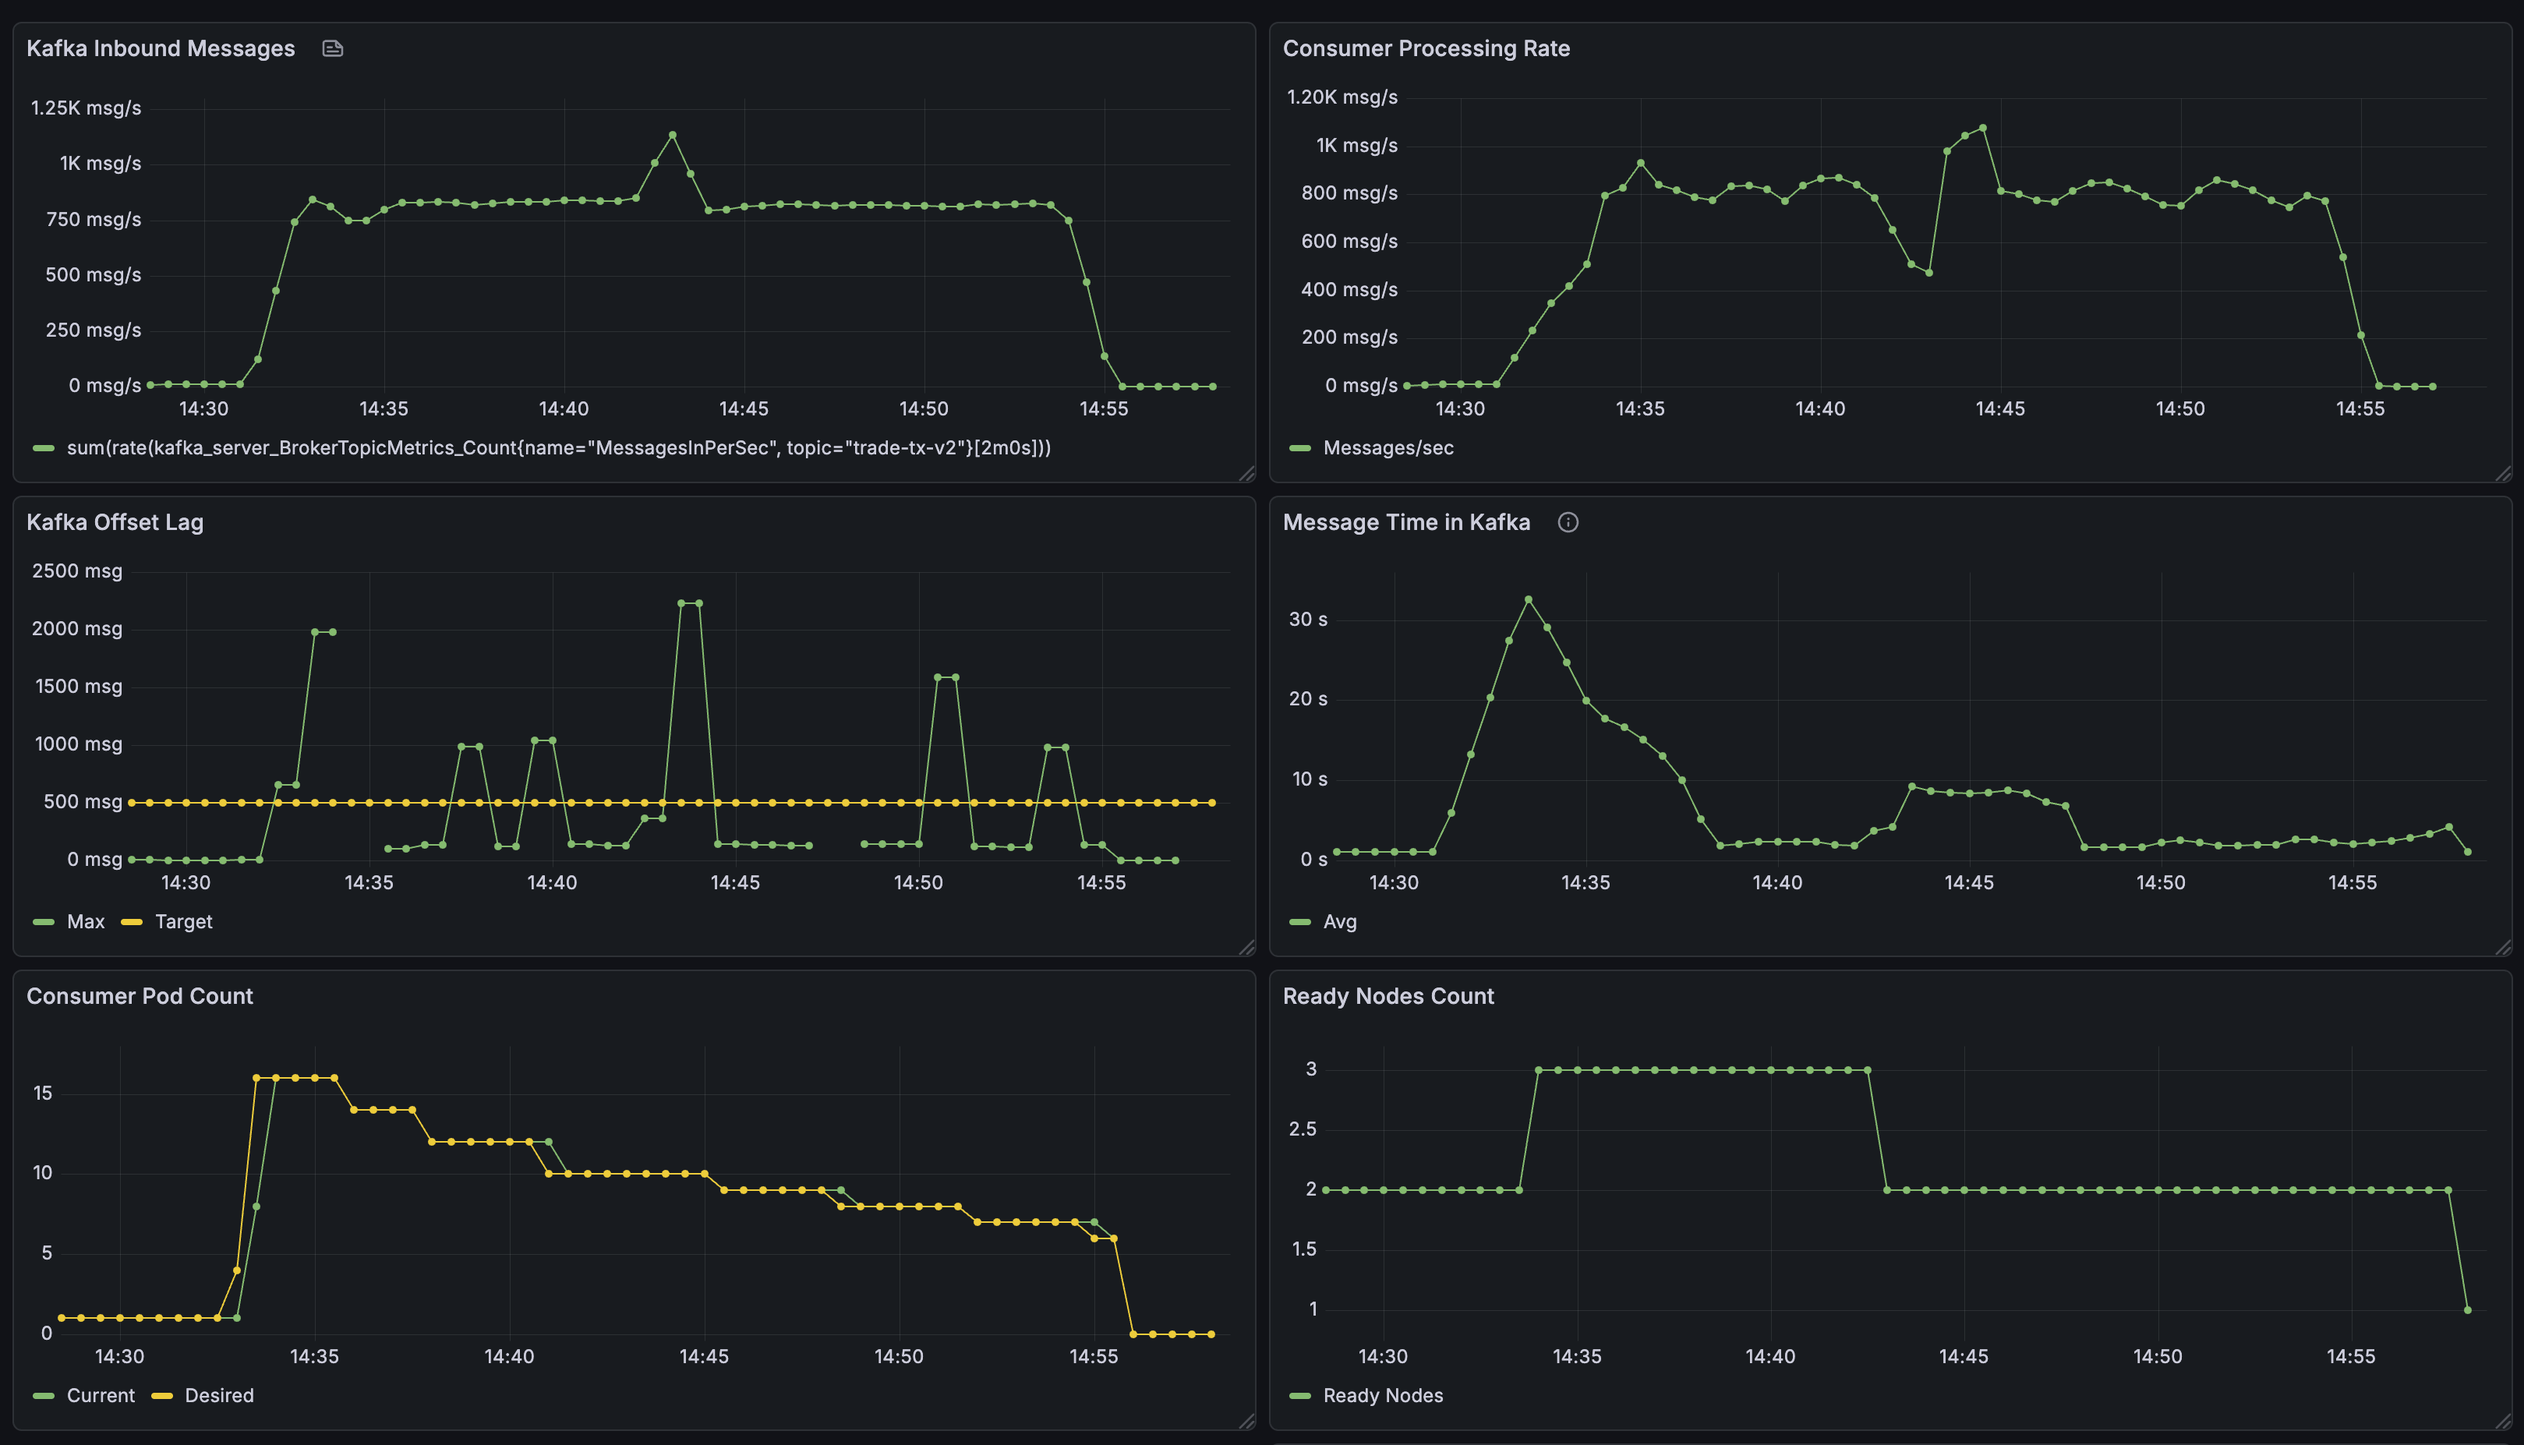
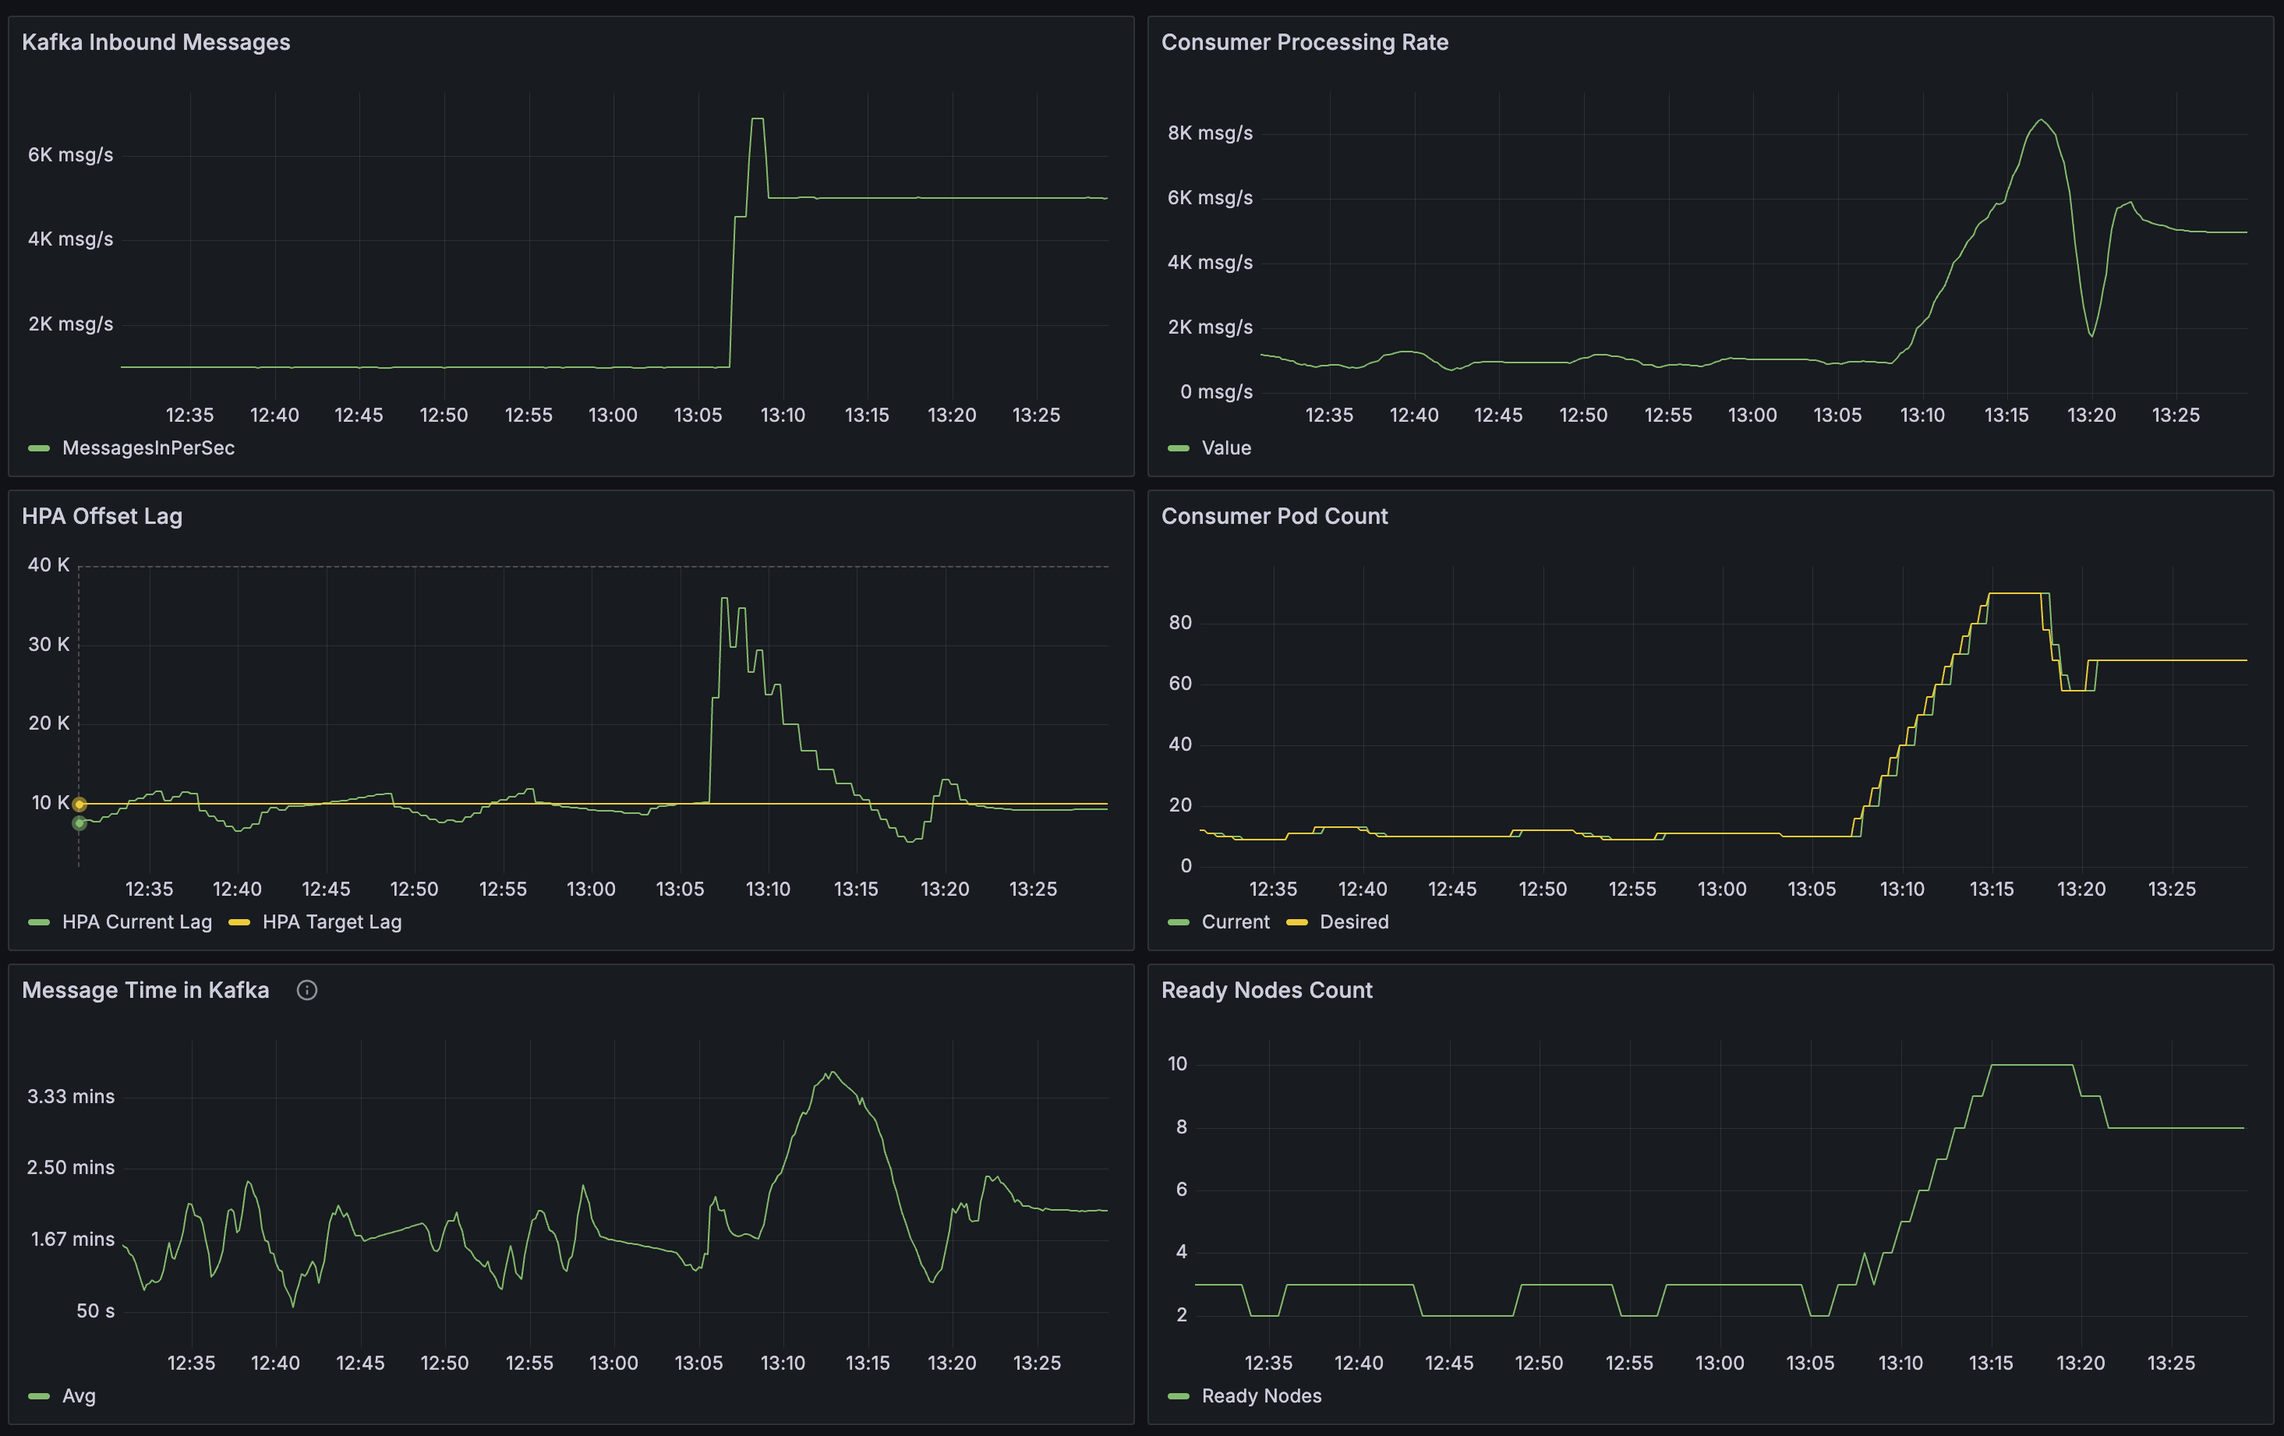
tuned keda scaling timing config

diff --git a/README.md b/README.md
@@ -7,10 +7,10 @@ This architecture demonstrates how to process variable transaction volumes with 
 The solution combines **AWS MSK** (managed Kafka) for durable message streaming with **Amazon EKS** and **KEDA** for event-driven autoscaling. It delivers:
 
 - **Massive parallelization** across Kafka partitions for high throughput
-- **Sub-minute scaling** from 0 to 20+ consumer pods based on real-time lag
+- **Responsive scaling** of processing capacity as soon as unprocessed messages increase
 - **Message persistence and replay** for audit/compliance requirements
 - **Ordering guarantees** via Kafka partition keys when needed
-- **Multi-tenant isolation** for service providers managing multiple institutions
+- **Multi-tenant isolation** using kafka topics and consumer groups for service providers managing multiple institutions
 - **Managed services** (MSK, EKS) to reduce operational overhead
 - **Built-in security** with IAM authentication and encryption
 
@@ -22,28 +22,29 @@ The solution combines **AWS MSK** (managed Kafka) for durable message streaming 
 - **Amazon EKS**: Kubernetes cluster with automatic compute management
 - **KEDA**: Event-driven autoscaler monitoring Kafka consumer lag (scales 0-20 replicas)
 - **Consumer Application**: Microbatch processor with cooperative rebalancing for zero-downtime scaling
-- **Producer Simulator**: Generates variable transaction loads to demonstrate elasticity
+- **Producer Simulator**: Generates transaction loads to demonstrate elasticity
 - **Prometheus + Grafana**: Observability stack for metrics and dashboards
 
 ## Tuning Autoscaling Behavior
 
-Scaling responsiveness is configured in the KEDA ScaledObject YAML. The key challenge is balancing **reaction speed** vs **stability**:
+Scaling responsiveness is configured using KEDA ScaledObject YAML. The key challenge is balancing **scaling speed** vs **stability** to avoid flapping:
 
-- **Too reactive**: System becomes unstable, flapping up and down
+- **Too reactive**: System becomes unstable, flapping up and down the number of pods
 - **Too slow**: Messages accumulate in Kafka, increasing processing delays
 
 Multiple factors add to scaling instability such as Kafka partition rebalancing when pods join or leave the consumer group, traffic variability, etc. Extra care should be taken to smooth out scaling and avoid a flapping system.
 
 **Critical tuning steps:**
 
-1. **Optimize partition rebalancing** by using cooperative rebalancing in the consumer app. During scale events, Kafka redistributes partition assignments across pods. With default "eager" rebalancing, all consumers pause for 30-60 seconds—violating SLAs during critical moments. This demo uses **cooperative rebalancing**, allowing most pods to continue processing while only affected pods pause briefly, ensuring consistent throughput during scaling.
+1. **Optimize partition rebalancing** by using cooperative rebalancing in the consumer app. 
+During scale events, Kafka redistributes partition assignments across pods. With default "eager" rebalancing, all consumers pause processing, which dramatically reduces processing throughput and risks breaching SLA. This architecture uses **cooperative rebalancing**, allowing most pods to continue processing while only affected pods pause briefly, reducing the impact on processing throughput during scaling.
 
 2. **Profile your application** to identify:
    - Peak processing capacity per pod (~100 msg/s in this demo)
-   - Ramp-up time to reach peak capacity (~60 seconds)
-   - Time it takes for partition rebalance to complete and consumers to pick up processing speed again (~60 seconds)
+   - Ramp-up time to reach peak capacity (~60 seconds in this demo)
+   - Time it takes for partition rebalance to complete and consumers to pick up processing speed again (~60 seconds in this demo)
 
-3. **Tune timing settings**:
+3. **Tune Keda timing settings**:
    Consider multiple configuration options for influencing scaling sensitivity:
    - **Pod initialReadinessDelay**: Allow time for new pods to ramp up before HPA considers them ready
    - **StabilizationWindowSeconds**: Consider metric values using a rolling window to smooth out fluctuations
@@ -92,13 +93,13 @@ This deploys:
   - Polls messages from topic `trade-tx`
   - Uses **microbatching** to aggregate records before processing (configurable `BATCH_SIZE`)
   - Simulates batch DB writes by waiting `BATCH_PROCESSING_TIME` for each batch
-  - Implements **cooperative rebalancing** to minimize processing interruption during scale events
+  - Implements **Kafka cooperative rebalancing** to minimize processing interruption during scale events
 
 - **KEDA ScaledObject**: Configures autoscaling behavior
   - Monitors `OffsetLag` metric (pending messages per partition)
-  - Scales from **0 to 100 replicas** based on lag threshold (configurable `LAG_THRESHOLD = 5000`)
-  - When lag > 5000: KEDA scales up pods to meet demand
-  - When lag < 5000: KEDA scales down to save resources
+  - Scales from **0 to 100 replicas** based on lag threshold (configurable `LAG_THRESHOLD = 10000`)
+  - When lag > 10000: KEDA scales up pods to meet demand
+  - When lag < 10000: KEDA scales down to reduce costs
   - When lag = 0: KEDA scales to zero after cooldown period
 
 **Microbatching benefits**: Aggregating multiple records into a single DB operation significantly reduces write latency—the typical bottleneck in transaction processing.
@@ -144,7 +145,7 @@ pod/trade-tx-consumer-bdb4ff757-gh2bd condition met
 [2025-12-30 16:12:26] INFO: Processing batch of 100 messages
 ```
 
-**Monitor autoscaling:**
+**Monitor HPA autoscaling:**
 ```bash
 kubectl get hpa
 ```
@@ -152,7 +153,7 @@ kubectl get hpa
 At 10 msg/s, lag stays below the 1000-message threshold, so only **1 replica** runs:
 ```
 NAME                                REFERENCE                      TARGETS       MINPODS   MAXPODS   REPLICAS   AGE
-keda-hpa-trade-tx-consumer-scaler   Deployment/trade-tx-consumer   14/5k (avg)   1         100       1          32m
+keda-hpa-trade-tx-consumer-scaler   Deployment/trade-tx-consumer   14/10k (avg)   1         100       1          32m
 ```
 
 ### Step 4: Simulate Demand Spike
@@ -165,22 +166,18 @@ Increase load to simulate a market event:
 
 This increases message generation to **~1000 messages/second** (100x spike).
 
-**Watch HPA scale out:**
+**Monitor HPA autoscaling:**
 ```bash
-watch kubectl get hpa
+kubectl get hpa
 ```
 
-HPA scales up to meet demand after waiting for the configured stabilization windows and timing delays to smooth out scaling decisions.
-```
-NAME                                REFERENCE                      TARGETSMINP         MINPODS   MAXPODS   REPLICAS   AGE
-keda-hpa-trade-tx-consumer-scaler   Deployment/trade-tx-consumer   3580813m/5k (avg)   1         100       16         37m
+Increase load again to **~5000 messages/second** (5x spike).:
+
+```bash
+./deploy-producer.sh 5000
 ```
 
-As consumers process the backlog, HPA gradually scales down to match demand:
-```
-NAME                                REFERENCE                      TARGETS             MINPODS   MAXPODS   REPLICAS   AGE
-keda-hpa-trade-tx-consumer-scaler   Deployment/trade-tx-consumer   3038462m/5k (avg)   1         100       13         16m
-```
+HPA scales up to meet demand after waiting for the configured stabilization windows and timing delays that smooth out scaling events.
 
 ### Step 5: Scale to Zero
 
@@ -209,6 +206,15 @@ Title: "MSK & KEDA Monitoring"
 
 ![Grafana Dashboard](images/Grafana-Dash.png)
 
+The chart shows how the system autoscales during a traffic spike from 1k msg/s to 5k msg/s
+
+## Clean Up
+
+```bash
+cd infra-tf
+terraform destroy
+```
+
 ## Configuration
 
 Edit `.env` files in application directories:
@@ -219,13 +225,6 @@ Edit `.env` files in application directories:
 **Consumer (`trade-tx-consumer/.env`):**
 - `BATCH_SIZE`: Messages per microbatch
 - `BATCH_PROCESSING_TIME`: Simulated DB write time in seconds
-
-## Clean Up
-
-```bash
-cd infra-tf
-terraform destroy
-```
 
 ## Project Structure
 
